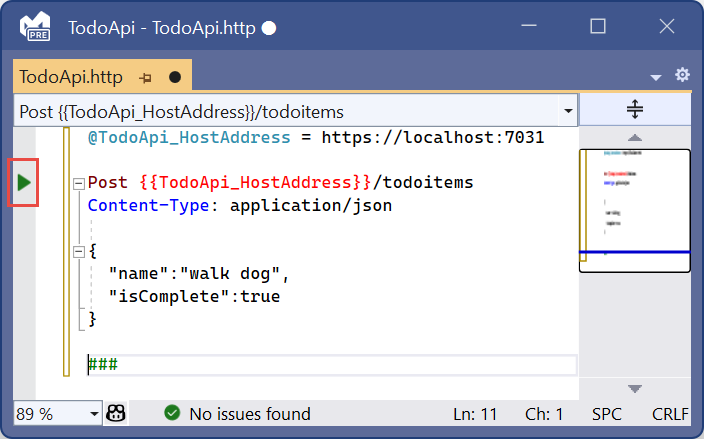
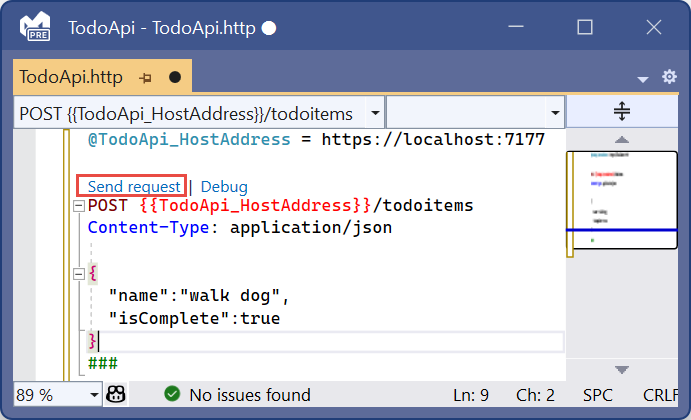
Update for new .http file UI

diff --git a/aspnetcore/tutorials/min-web-api.md b/aspnetcore/tutorials/min-web-api.md
@@ -3,7 +3,7 @@ title: "Tutorial: Create a minimal API with ASP.NET Core"
 author: wadepickett
 description: Learn how to build a minimal API with ASP.NET Core.
 ms.author: wpickett
-ms.date: 07/18/2023
+ms.date: 08/11/2023
 ms.custom: engagement-fy24
 monikerRange: '>= aspnetcore-6.0'
 uid: tutorials/min-web-api
@@ -300,7 +300,7 @@ Use the POST endpoint to add data to the app.
 
 * Run the app.
 
-* Select the green **run** button to the left of the line that begins with `Post`.
+* Select the **Send request** link that is above the `POST` request line.
 
   ![.http file window with run link highlighted.](~/tutorials/min-web-api/_static/http-file-run-button.png)
 
@@ -363,7 +363,7 @@ Test the app by calling the `GET` endpoints from a browser or by using **Endpoin
   ###
   ```
 
-* Select the green **run** button to the left of the new `GET` request line.
+* Select the **Send request** link that is above the new `GET` request line.
 
   The GET request is sent to the app and the response is displayed in the **Response** pane.
 
@@ -390,7 +390,7 @@ Test the app by calling the `GET` endpoints from a browser or by using **Endpoin
 
 * Replace `{id}` with `1`.
 
-* Select the green **run** button to the left of the new GET request line.
+* Select the **Send request** link that is above the new GET request line.
 
   The GET request is sent to the app and the response is displayed in the **Response** pane.
 
@@ -496,7 +496,7 @@ Update the to-do item that has Id = 1 and set its name to `"feed fish"`.
 
   The preceding code adds a Content-Type header and a JSON request body.
 
-* Select the green **run** button to the left of the PUT request line.
+* Select the **Send request** link that is above the new GET request line.
 
   The PUT request is sent to the app and the response is displayed in the **Response** pane. The response body is empty, and the status code is 204.
   
@@ -544,7 +544,7 @@ The sample app implements a single DELETE endpoint using `MapDelete`:
   ###
   ```
 
-* Select the **run** button for the DELETE request.
+* Select the **Send request** link for the DELETE request.
 
   The DELETE request is sent to the app and the response is displayed in the **Response** pane. The response body is empty, and the status code is 204.
   
